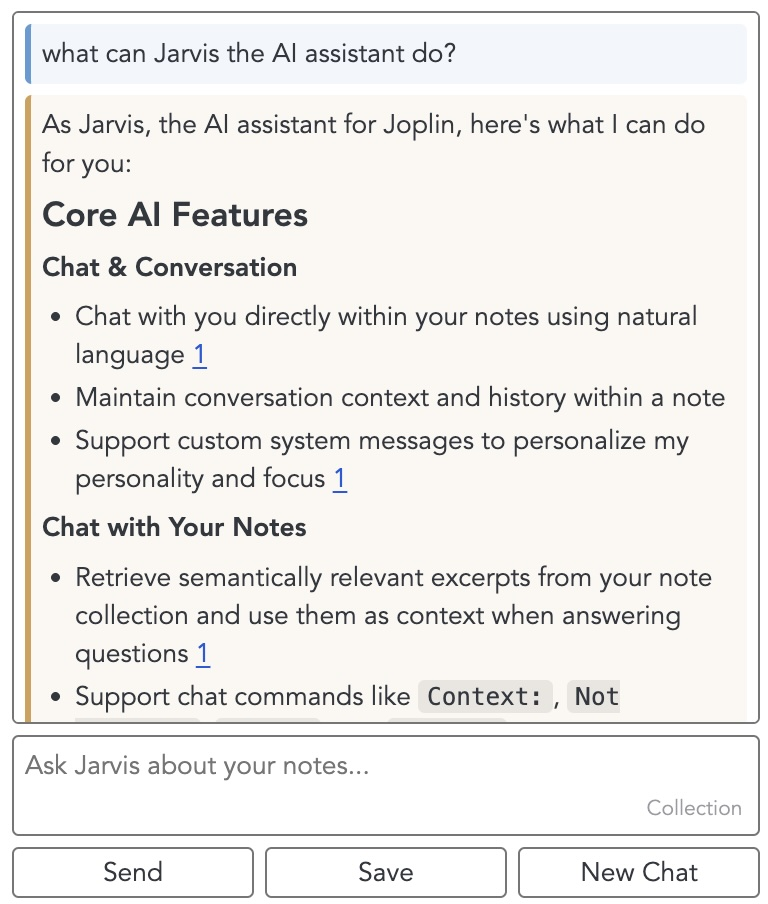
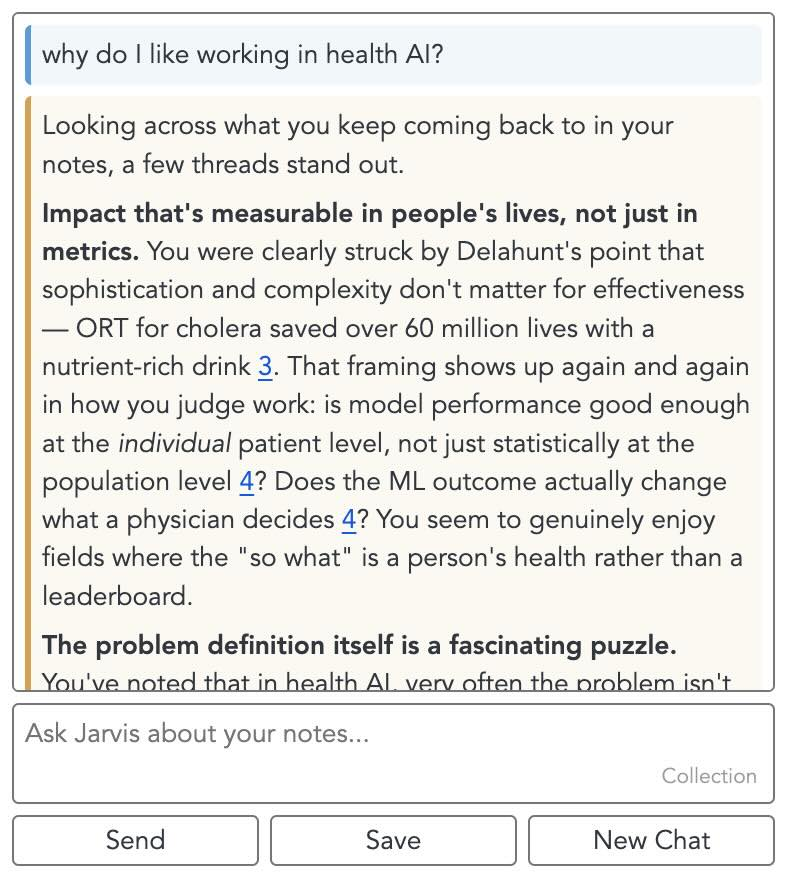
Rebuild: jarvis screenshot and joplin-mcp
Built from alondmnt/alondmnt.com @ edd306f.

Changed region(s): [[0.0, 0.0, 1.0, 1.0]]

diff --git a/jarvis/index.html b/jarvis/index.html
@@ -57,7 +57,7 @@ The first release went out on 20 November 2022, ten days before ChatGPT, and it 
 	<meta itemprop="name" content="Jarvis">
 	<meta itemprop="description" content="Back in 2022 I wanted to have LLMs as first-class citizens in my favourite note app. It was clear that they could make the editing, brainstorming and searching experience immensely better if they were integrated within my personal knowledge base. So I built Jarvis, and expanded it over the following months until it became a powerful assistant that can answer deep questions about my personal and professional life.
 The first release went out on 20 November 2022, ten days before ChatGPT, and it was basic. Retrieval over notes came the following spring, and there have been releases every year since. It is the de facto standard AI assistant for Joplin.">
-	<meta itemprop="wordCount" content="639">
+	<meta itemprop="wordCount" content="704">
 	<meta itemprop="image" content="https://alondmnt.com/images/cover-image.jpg">
 
 
@@ -106,6 +106,7 @@ The first release went out on 20 November 2022, ten days before ChatGPT, and it 
 <p>Doing this did expose one problem. Joplin stored a full copy of the metadata in every note revision, so editing a single word duplicated all of that note&rsquo;s vectors into its history. I <a href="https://github.com/laurent22/joplin/pull/15245">fixed that in Joplin itself</a>. Debugging Jarvis also turned up a memory leak in Joplin&rsquo;s plugin API that had been affecting plugins for years. I traced it to <a href="https://github.com/laurent22/joplin/issues/14919">the callback registry</a>, and a maintainer shipped the fix two days later.</p>
 <h4 id="where-it-goes-next">Where it goes next</h4>
 <p>A shared, native, cross-plugin embedding index, built once and built well, would let every feature on top of it improve at once, rather than each one solving retrieval again for itself. I set that case out when Joplin was <a href="https://discourse.joplinapp.org/t/gsoc-2026-opportunities-for-the-ai-projects/49228">scoping its AI projects</a>.</p>
+<p>The other direction is agents. In 2025 I <a href="https://discourse.joplinapp.org/t/ai-agents-and-joplin/46168">wanted mine to reach into the same second brain</a>, so I built <a href="https://github.com/alondmnt/joplin-mcp">joplin-mcp</a>, an MCP server that lets any agent read and write Joplin notes through a standard interface. It has become the most widely used MCP for Joplin, and the project is now building one into the core app as part of its new AI infrastructure.</p>
 <h4 id="read-more">Read more</h4>
 <p>The <a href="https://github.com/alondmnt/joplin-plugin-jarvis">code</a> and the <a href="https://github.com/alondmnt/joplin-plugin-jarvis/blob/master/GUIDE.md">guide</a>, and a <a href="https://github.com/alondmnt/joplin-plugin-jarvis/blob/master/docs/VECTOR_DB_TECH_SPEC.md">technical spec</a> for the note-metadata index.</p>
 
